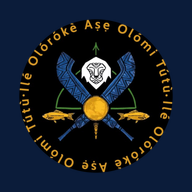
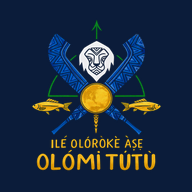
Use the Designer crest with lion and house name as the official brasao.
Replaces the cached asset with the provided mark and refreshes PWA icons so production picks up the new brand.

diff --git a/public/sw.js b/public/sw.js
@@ -1,5 +1,5 @@
 /* Service worker — PWA + notificações com logo do app */
-const SW_VERSION = "oloroke-notif-v4-brasao";
+const SW_VERSION = "oloroke-notif-v5-designer";
 
 function appOrigin() {
   return self.location.origin;
@@ -24,6 +24,7 @@ self.addEventListener("install", (event) => {
           "/icon-192.png",
           "/icon-512.png",
           "/apple-touch-icon.png",
+          "/brasao-designer.png",
           "/brasao-oficial.png",
           "/logo.jpg",
         ]),

diff --git a/components/brand/logo.tsx b/components/brand/logo.tsx
@@ -17,7 +17,7 @@ export function BrandMark({
   return (
     <div className={cn("relative overflow-hidden bg-transparent", className)}>
       <Image
-        src="/brasao-oficial.png"
+        src="/brasao-designer.png"
         alt="ILÉ OLÓRÒKÈ ÀṢẸ — OLÓMÌ TÚTÙ"
         fill
         priority={priority}
